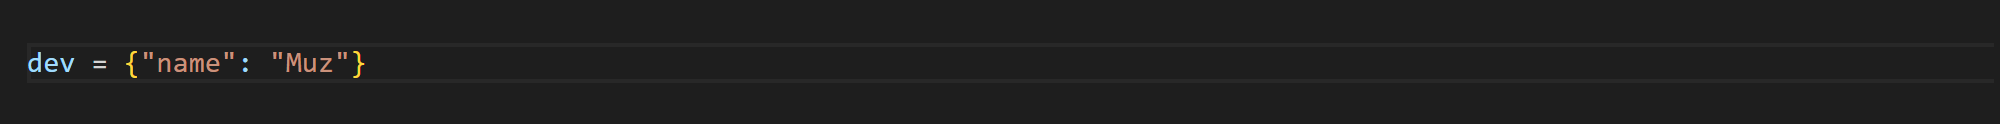
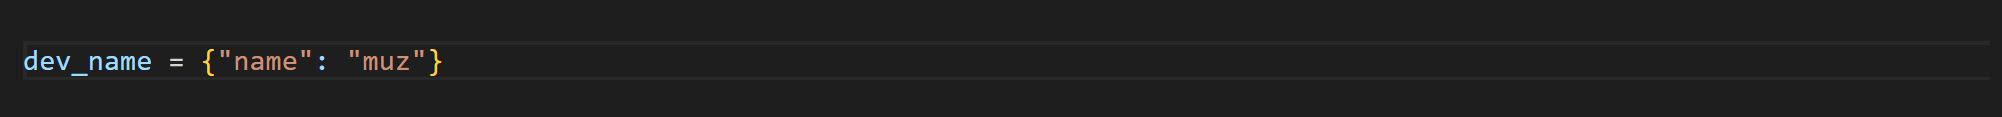
dev_name variable name change

Changed region(s): [[0.0, 0.4103, 0.248, 0.641]]

diff --git a/src/images/dev3.py b/src/images/dev3.py
@@ -1,4 +1,4 @@
 
 
-dev = {"name": "Muz"}
+dev_name = {"name": "muz"} 
 
